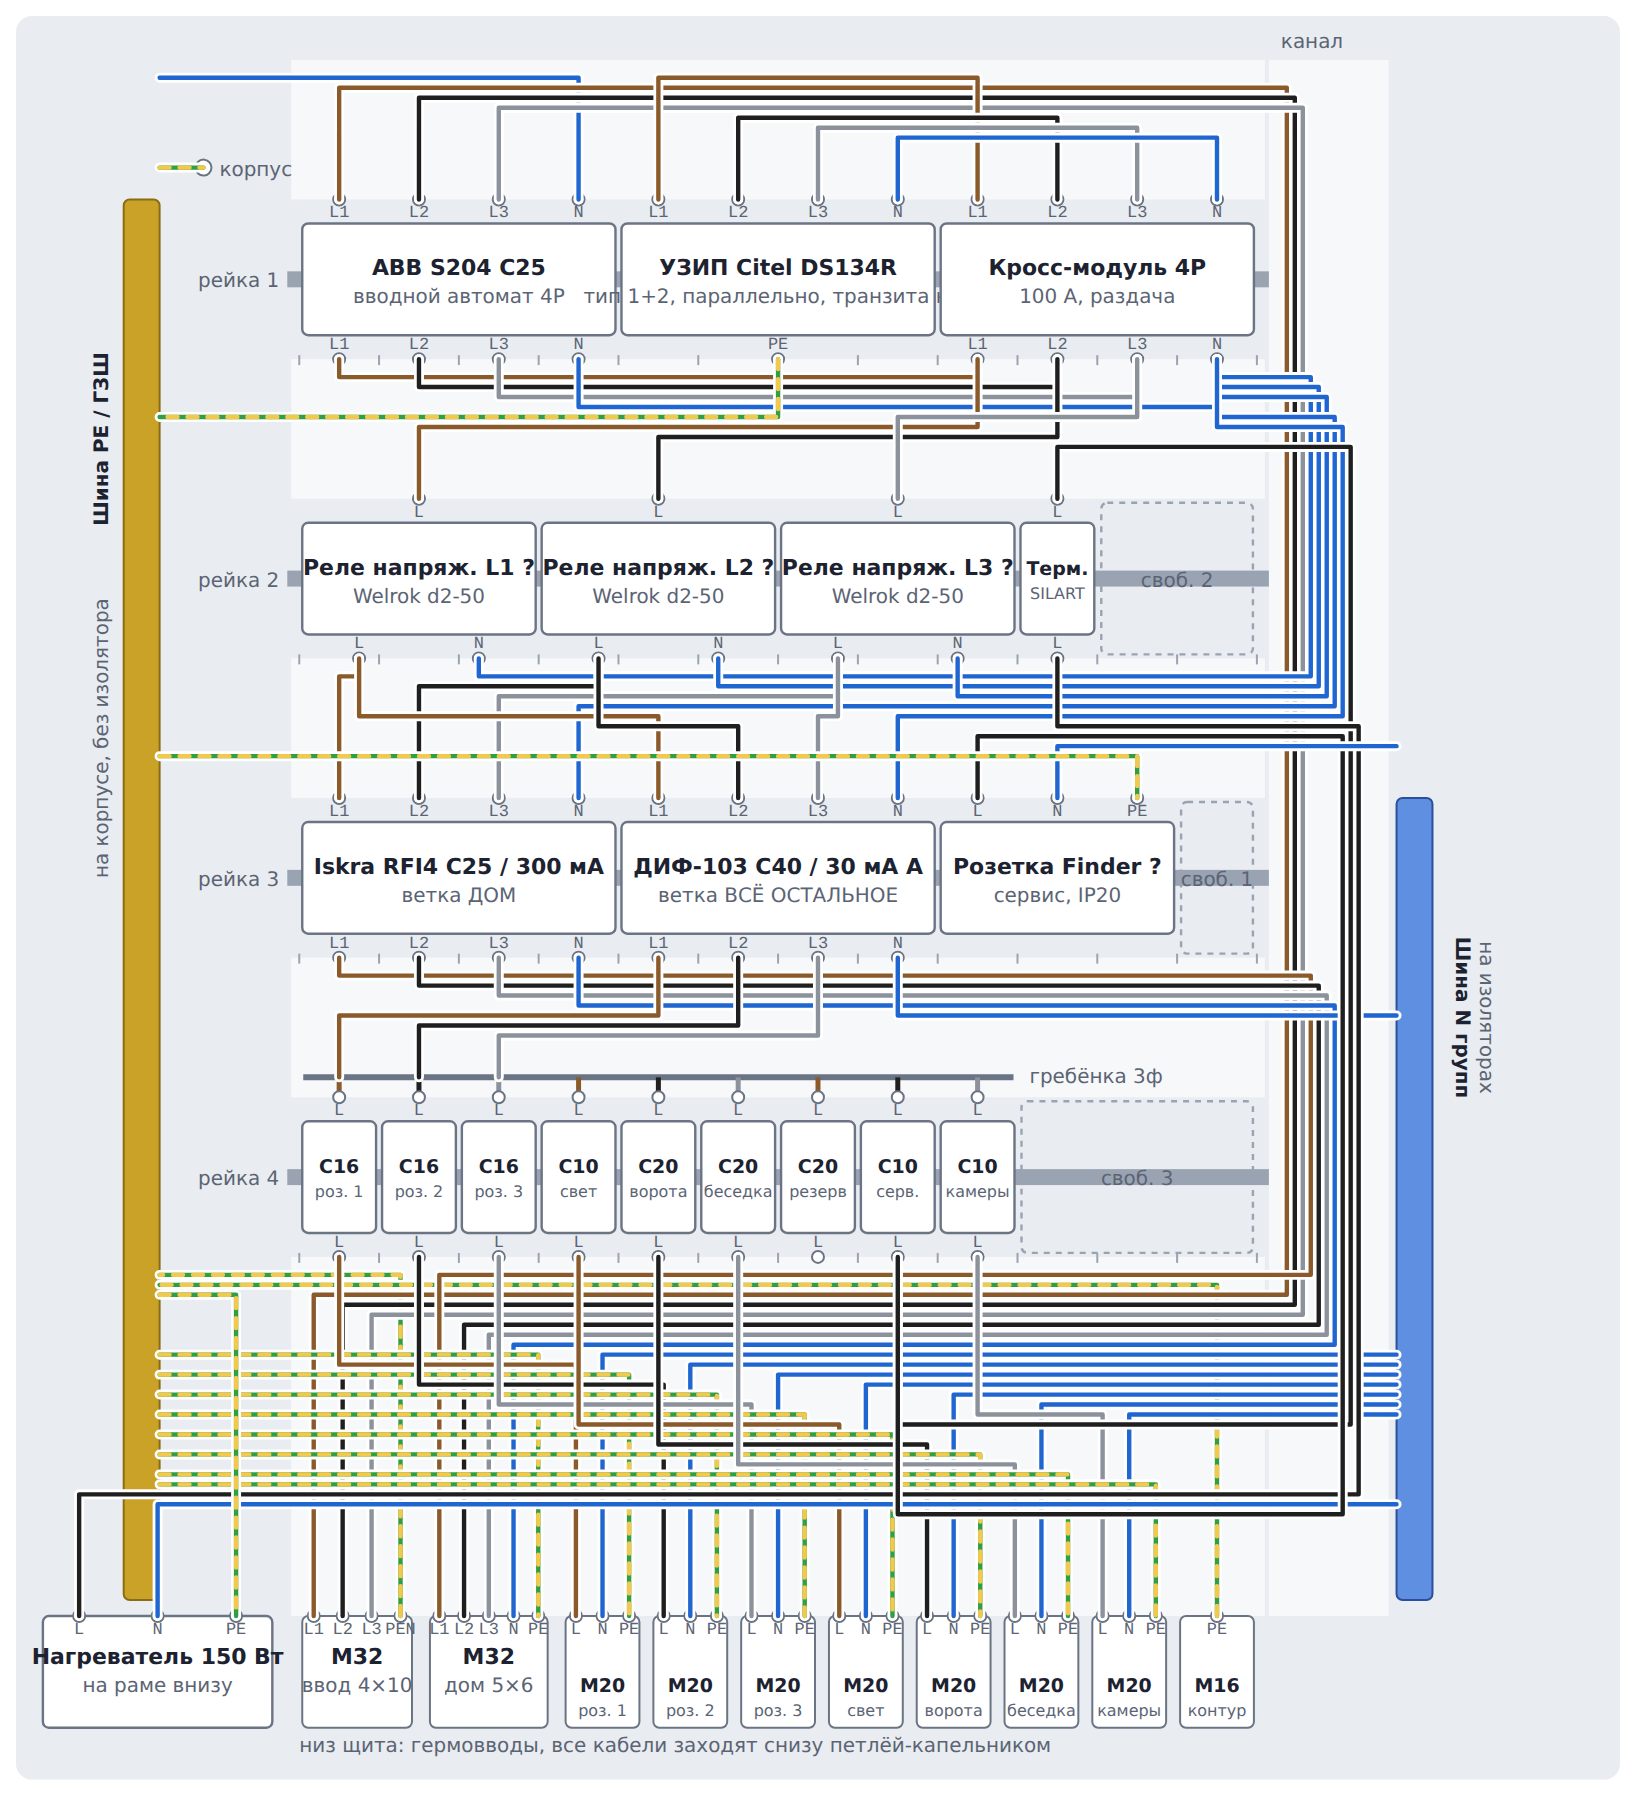
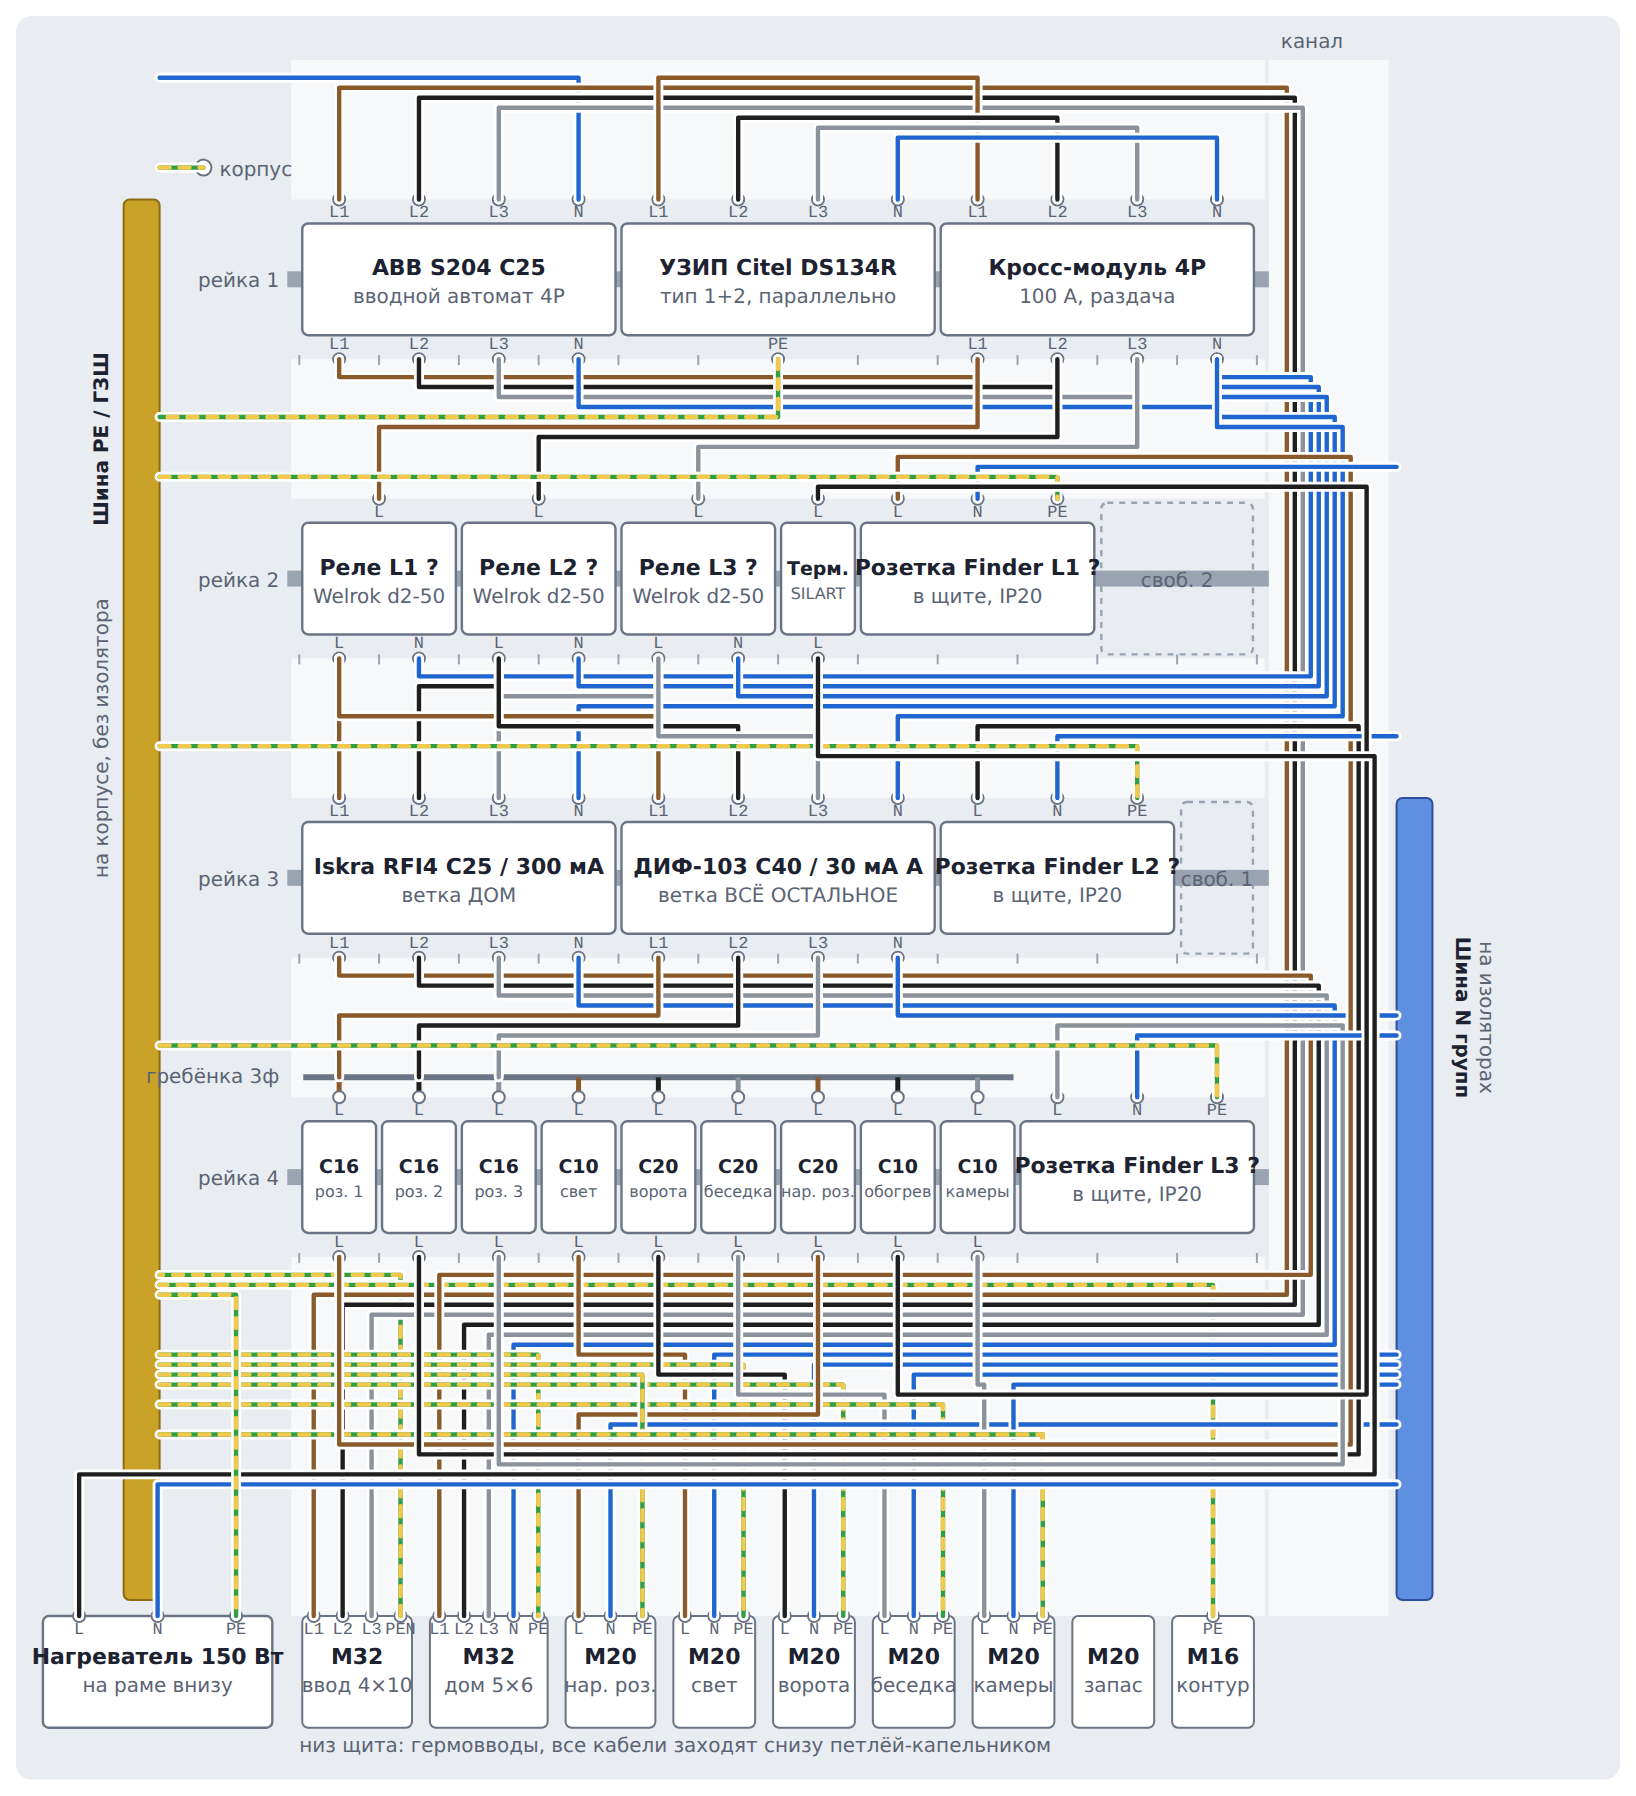
Щит: три розетки Finder внутри по фазам + наружная IP65; схема и panel.md
- Раскладка: Finder L1/L2/L3 на рейках 2-4, реле по 2 модуля, 45/48 занято
- Автоматы: C16 x3 на Finder, C20 на ворота/беседку/наружную розетку, C10 на свет/обогрев/камеры
- Гермовводы: одна наружная розетка вместо трёх, добавлен запасной M20

Claude-Session: https://claude.ai/code/session_014vwwLy1XQxWdD3M4ixQCrA

diff --git a/07-schemas/electrics/panel.md b/07-schemas/electrics/panel.md
@@ -50,19 +50,19 @@
 
 | Линия | Автомат | Кабель | Фаза |
 |-------|---------|--------|------|
-| Розетка 1 (уличная) | 1P **C16** | ВВГ 3×2,5 | L1 |
-| Розетка 2 (уличная) | 1P **C16** | ВВГ 3×2,5 | L2 |
-| Розетка 3 (уличная) | 1P **C16** | ВВГ 3×2,5 | L3 |
-| Ворота (привод) | 1P **C16** | ВВГ 3×2,5 в ПНД | L2 |
-| Беседка | 1P **C16** | ВВГ 3×2,5 в ПНД | L3 |
+| Розетка Finder 1 (в щите) | 1P **C16** | ПуГВ 2,5 | L1 |
+| Розетка Finder 2 (в щите) | 1P **C16** | ПуГВ 2,5 | L2 |
+| Розетка Finder 3 (в щите) | 1P **C16** | ПуГВ 2,5 | L3 |
 | Освещение двора | 1P **C10** | ВВГ 3×1,5 | L1 |
+| Ворота (привод) | 1P **C20** | ВВГ 3×2,5 в ПНД | L2 |
+| Беседка | 1P **C20** | ВВГ 3×2,5 в ПНД | L3 |
+| Наружная розетка ЭРА IP65 (на корпусе) | 1P **C20** (лучше докупить C16) | ВВГ 3×2,5 | L1 |
+| Обогрев щита (термостат → нагреватель) | 1P **C10** | ПуГВ 1,5 | L2 |
 | Камеры (БП/регистратор) | 1P **C10** | ВВГ 3×1,5 | L3 |
-| Сервисная розетка в щите | 1P **C10** | — | L2 |
-| Резерв | — | — | — |
 
 > Компромисс: всё остальное под одним 30-мА — утечка в одной линии гасит всю ветку (розетки/ворота/свет/камеры). Для камер поэтому желателен ИБП.
 > Тип **A** (не AC) — обязательно: ловит утечки от техники с электроникой (БП камер, зарядки, инструмент).
-> Баланс по фазам: L1 — розетка 1, свет · L2 — розетка 2, ворота, серв. · L3 — розетка 3, беседка, камеры.
+> Порядок на рейке = фаза по гребёнке: L1 — Finder 1, свет, наружная розетка · L2 — Finder 2, ворота, обогрев · L3 — Finder 3, беседка, камеры.
 
 ---
 
@@ -99,7 +99,7 @@ flowchart TD
 1. **Обогрев щита** — нагреватель + термостат (куплены): металл зимой собирает конденсат, вредно для реле и БП камер.
 2. **Заземлить корпус** — PE на металлический корпус (обязательно).
 3. **ИБП для камер** (маленький) — переживать срабатывания 30-мА и просадки.
-4. **Розетки:** решить наружные IP54+ на корпусе (для инструмента удобнее) vs в щит IP20 (Finder — сервисные, открывать дверцу).
+4. **Розетки:** три Finder внутри щита, по одной на фазу, плюс одна ЭРА IP65 снаружи на корпусе. Для наружной докупить один автомат S201 C16 (сейчас она на C20).
 5. **Гермовводы снизу**, кабели петлёй-капельником.
 6. **Маркировка** — подписать автоматы, схему на дверцу. Запас модулей в 48-м корпусе ~10 (обогрев/вольтметр учесть).
 
@@ -118,11 +118,11 @@ flowchart TD
 | Автомат ABB S201 1P C16 | 3 |
 | Автомат ABB S201 1P C20 | 3 |
 | Автомат ABB S201 1P C10 | 3 |
-| Розетка наружная ЭРА IP65 2P+E, 16 А | 1 |
-| Розетки в щит Finder Schuko IP20 (сервис/по решению) | 3 |
+| Розетка наружная ЭРА IP65 2P+E, 16 А (на корпусе) | 1 |
+| Розетки в щит Finder Schuko IP20, по одной на фазу | 3 |
 | Нагреватель UNISPLIT 150 Вт + термостат SILART TBS-140 | 1 компл. |
 
-> Розетки: рекомендую пустить на **C16** (под 2,5 мм²); купленные **C20** — под мощную нагрузку или в запас. Камеры лучше **C6**, но C10 рабочий вариант.
+> Finder на **C16 ×3**; C20 ушли на ворота, беседку и наружную розетку (для неё докупить C16). Камеры лучше **C6**, но C10 рабочий вариант. Ширина Welrok принята 2 модуля: если 3, третья Finder не влезет.
 
 **Ещё докупить (расходники, не в основной корзине):**
 
